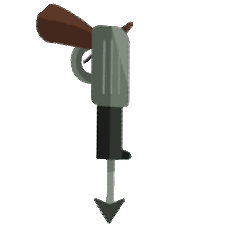
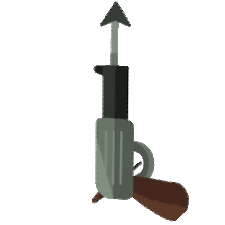
done-ish the continuous game
done main functuality

Changed region(s): [[0.1556, 0.0, 0.84, 0.9956]]

diff --git a/sprites.py b/sprites.py
@@ -14,17 +14,17 @@ class Block (pygame.sprite.Sprite):
         self.OG_image = pygame.Surface([width,height])
         self.center = self.OG_image.get_rect().center
         self.rect = self.OG_image.get_rect(center = self.center)
-        self.image_angle = random.randrange(0,360)
+        self.image_angle = 0#random.randrange(0,360)
         self.image = pygame.transform.rotate(self.OG_image, self.image_angle)
     def spin(self):
-        self.image_angle += 2
+        self.image_angle += 10
         self.image = pygame.transform.rotate(self.OG_image, self.image_angle)
         self.rect = self.image.get_rect(center = self.center)
     def move(self):
-        angle = self.image_angle
-        self.rect.x += math.sin(self.image_angle)*speed*-1
-        self.rect.y += math.cos(self.image_angle)*speed*-1
-        self.center = (self.center[0] + math.sin(self.image_angle)*speed*-1, self.center[1] + math.cos(self.image_angle)*speed*-1)
+        rad = math.radians(self.image_angle)
+        self.rect.x += math.sin(rad)*speed*-1
+        self.rect.y += math.cos(rad)*speed*-1
+        self.center = (self.center[0] + math.sin(rad)*speed*-1, self.center[1] + math.cos(rad)*speed*-1)
 
 pygame.init()
 
@@ -33,17 +33,21 @@ screen_width = 700
 screen_height = 500
 screen = pygame.display.set_mode([screen_width,screen_height])
 
-block_list = pygame.sprite.Group()
+blocks = pygame.sprite.Group()
+block_list = []
+cblock_hit_list = []
 all_sprites_list = pygame.sprite.Group()
 
 for i in range(4):
     block = Block(20,15)
     block.rect.x = random.randrange(0,650)
-    block.rect.y = i*100
-    block.OG_image = pygame.transform.scale(pygame.image.load("wood.jpg"), (100, 100))
-    block_list.add(block)
+    block.rect.y = (i*200) - 400
+    block.OG_image = pygame.transform.scale(pygame.image.load("wood.jpg"), (20, 15))
+    blocks.add(block)
+    block_list.append(block)
     all_sprites_list.add(block)
 
+target = 3
 player = Block(20, 20)
 player.rect.x = 325
 player.rect.y = 300
@@ -55,6 +59,7 @@ all_sprites_list.draw(screen)
 spin = False
 move = False
 done = False
+start = True
 clock = pygame.time.Clock()
 score = 0
 
@@ -62,7 +67,7 @@ while done == False:
     for event in pygame.event.get():
         if event.type == pygame.QUIT:
             done = True
-    if event.type == pygame.KEYDOWN and event.key == pygame.K_SPACE:
+    if event.type == pygame.KEYDOWN and event.key == pygame.K_SPACE and start == True:
         player.spin()
         spin = True
     elif (spin == True and event.type != pygame.KEYDOWN) or (move == True):
@@ -70,16 +75,24 @@ while done == False:
         move = True
         player.move()
 
-    
     screen.fill(white)
     
-    block_hit_list = pygame.sprite.spritecollide(player,block_list,True)
-    
-    for block in block_hit_list:
-        score += 1
-        print(score)
-        if score == 4:
+    blocks_hit = pygame.sprite.spritecollide(player,blocks,False)
+        
+    if len(blocks_hit) > 0:
+        if blocks_hit[-1] == block_list[target]:
+            block_list[target].rect.x = random.randrange(0, 650)
+            block_list[target].rect.y -= 800
+            target -= 1
+            if target == -1:
+                target = 3
+            score += 1
+            print(score)
+        else:
             done = True
+
+    for sprite in all_sprites_list:
+        sprite.rect.y += 2
     
     all_sprites_list.draw(screen)
     
